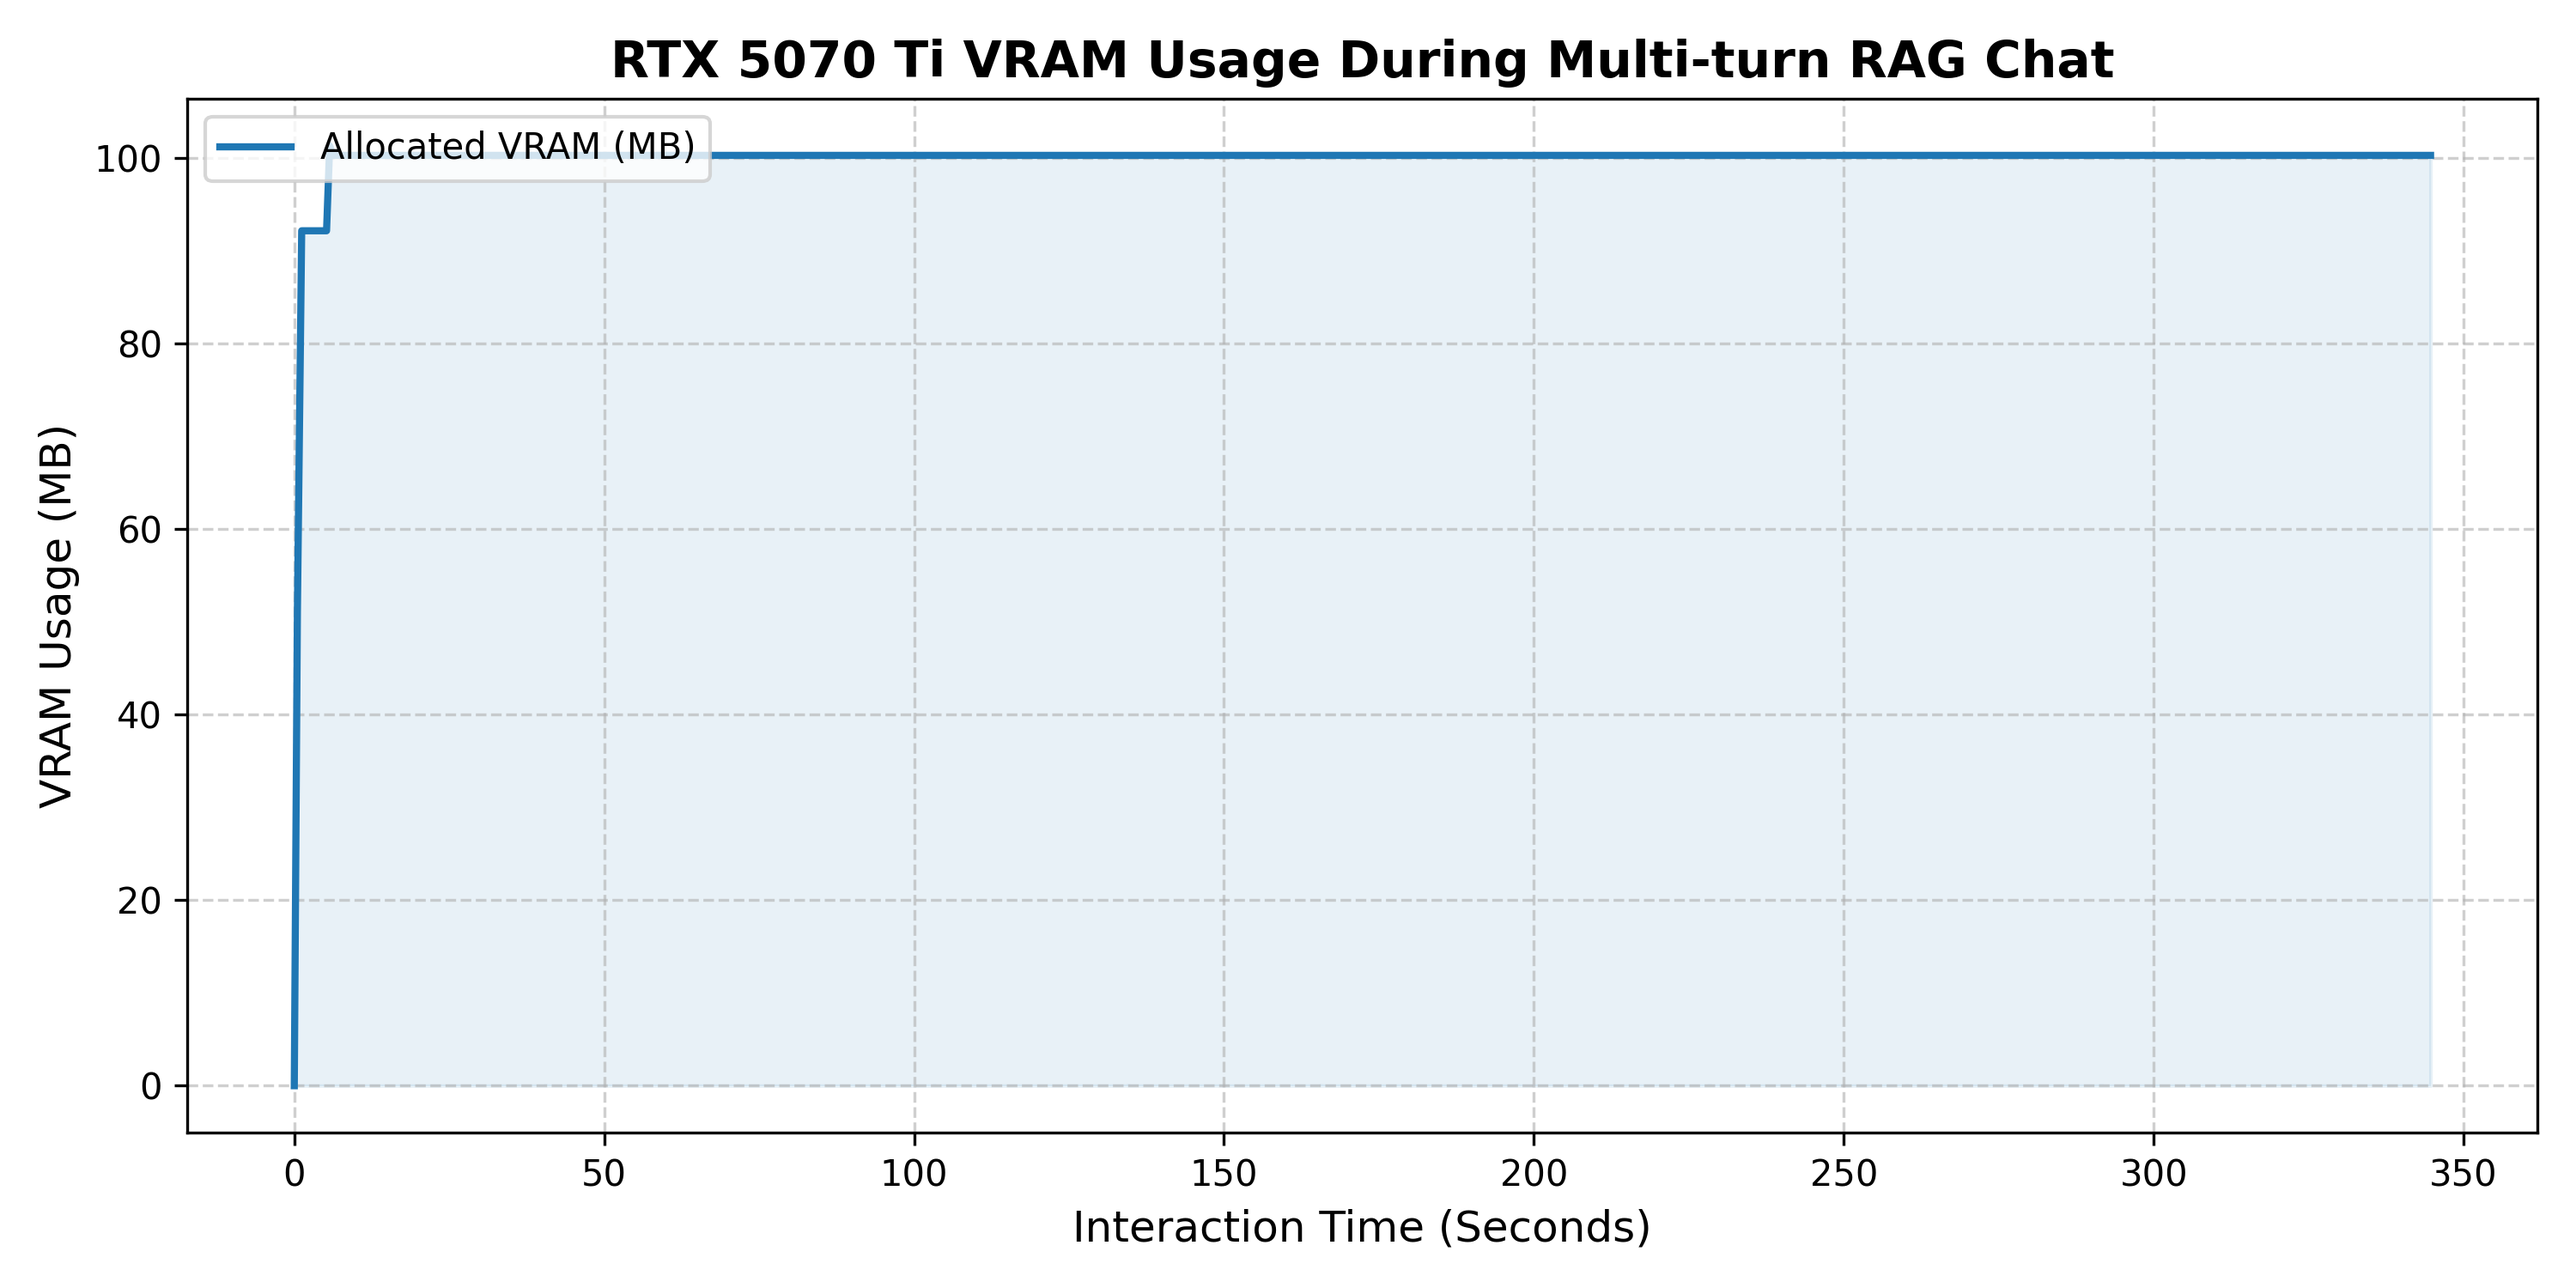
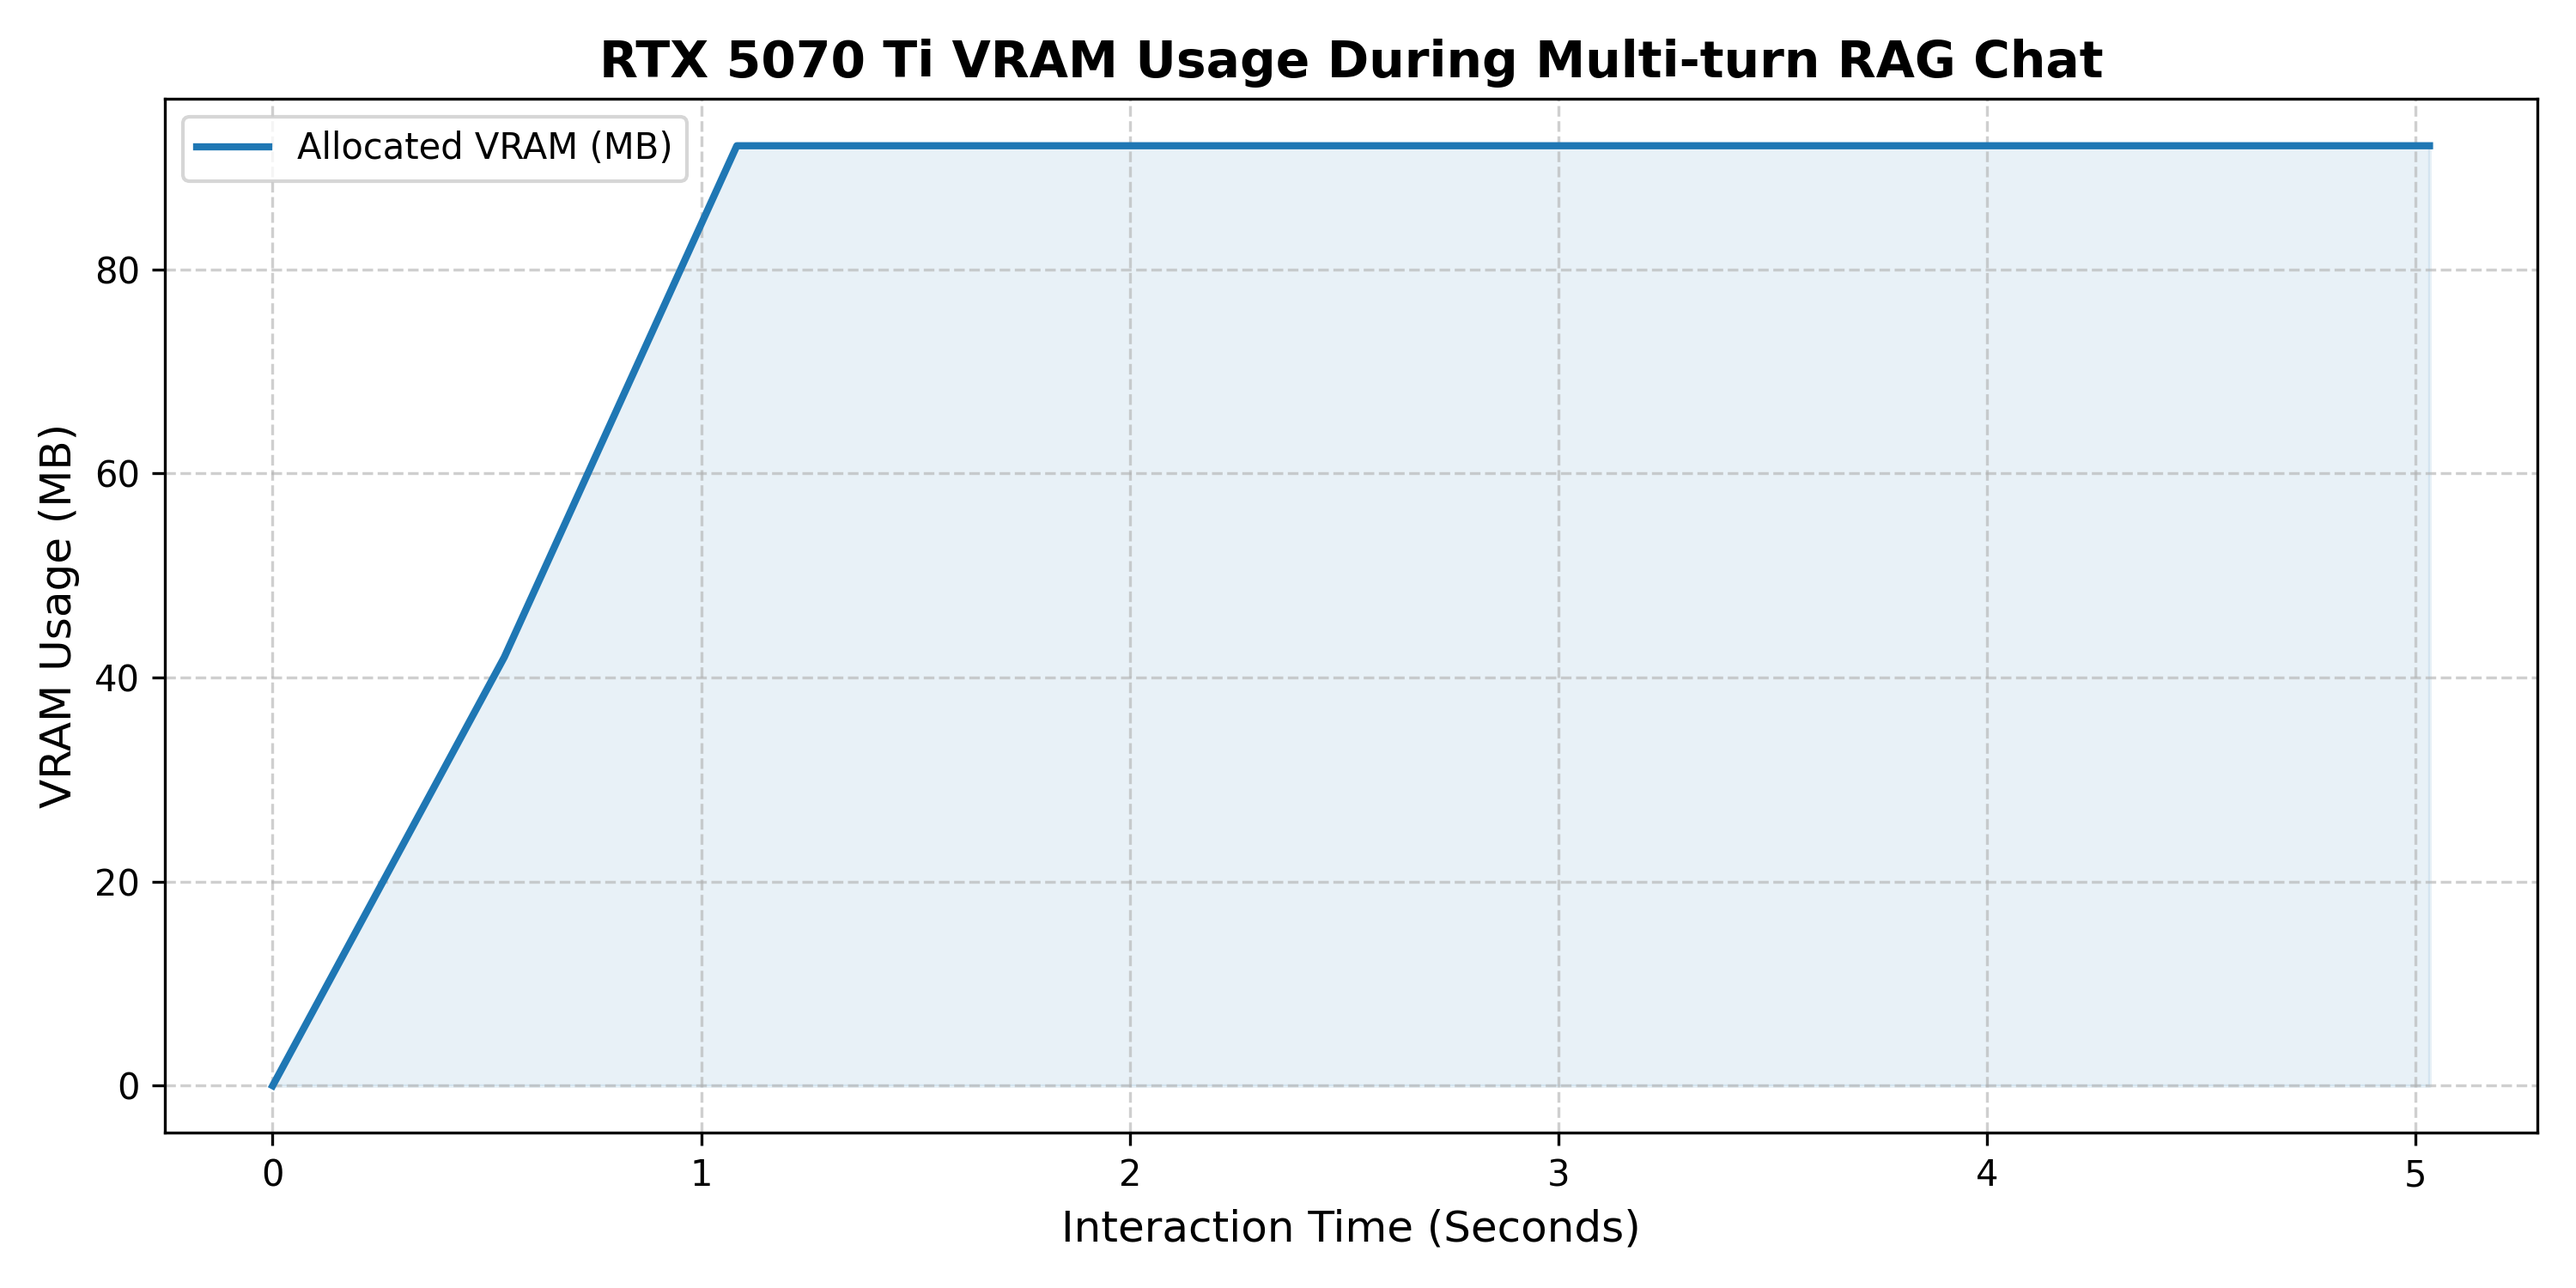
chore: revise Readme.md and Note

diff --git a/memory/memory_manager.py b/memory/memory_manager.py
@@ -171,14 +171,10 @@ class MemoryManager:
         memory_docs = []
 
         if self.memory_vs.total_count > 0:
-            raw_memory = self.memory_vs.search(
-                q_emb,
-                self.memory_recall_k,
-                1e9,  # 放宽召回距离阈值，尽量召回已有长期记忆
-            )
-
+            # 放宽召回距离阈值，尽量召回已有长期记忆
+            raw_memory = self.memory_vs.search(q_emb, self.memory_recall_k, 4.0)
             if raw_memory:
-                memory_docs = raw_memory[:self.memory_rerank_k]
+                memory_docs = self.reranker_model.rank(query, raw_memory, self.memory_rerank_k)
 
         return {
             "base_context": "无。",

diff --git a/pipeline/rag_pipeline.py b/pipeline/rag_pipeline.py
@@ -177,10 +177,10 @@ class RAGPipeline:
 
         # 3 根据 query 意图选择记忆检索策略
         if query_intent == "memory_recall":
-            # 只查 Memory FAISS，放宽召回阈值，跳过 Base FAISS。
+            # 历史记忆回忆问题：只查 Memory FAISS，跳过 Base FAISS。
             contexts = self.mm.get_memory_recall_context(query)
         else:
-            # 查 Base FAISS + Memory FAISS，使用正常距离阈值和 reranker。
+            # 默认normal_rag：查 Base FAISS + Memory FAISS，使用正常距离阈值和 reranker。
             contexts = self.mm.get_long_term_context(query)
 
         base_context = contexts["base_context"]

diff --git a/README.md b/README.md
@@ -1,4 +1,4 @@
-# Memory RAG System: 带有动态上下文记忆的本地化检索增强生成系统
+# Memory-RAG-System 自研多轮记忆知识库问答系统
 
 ## 项目简介
 
